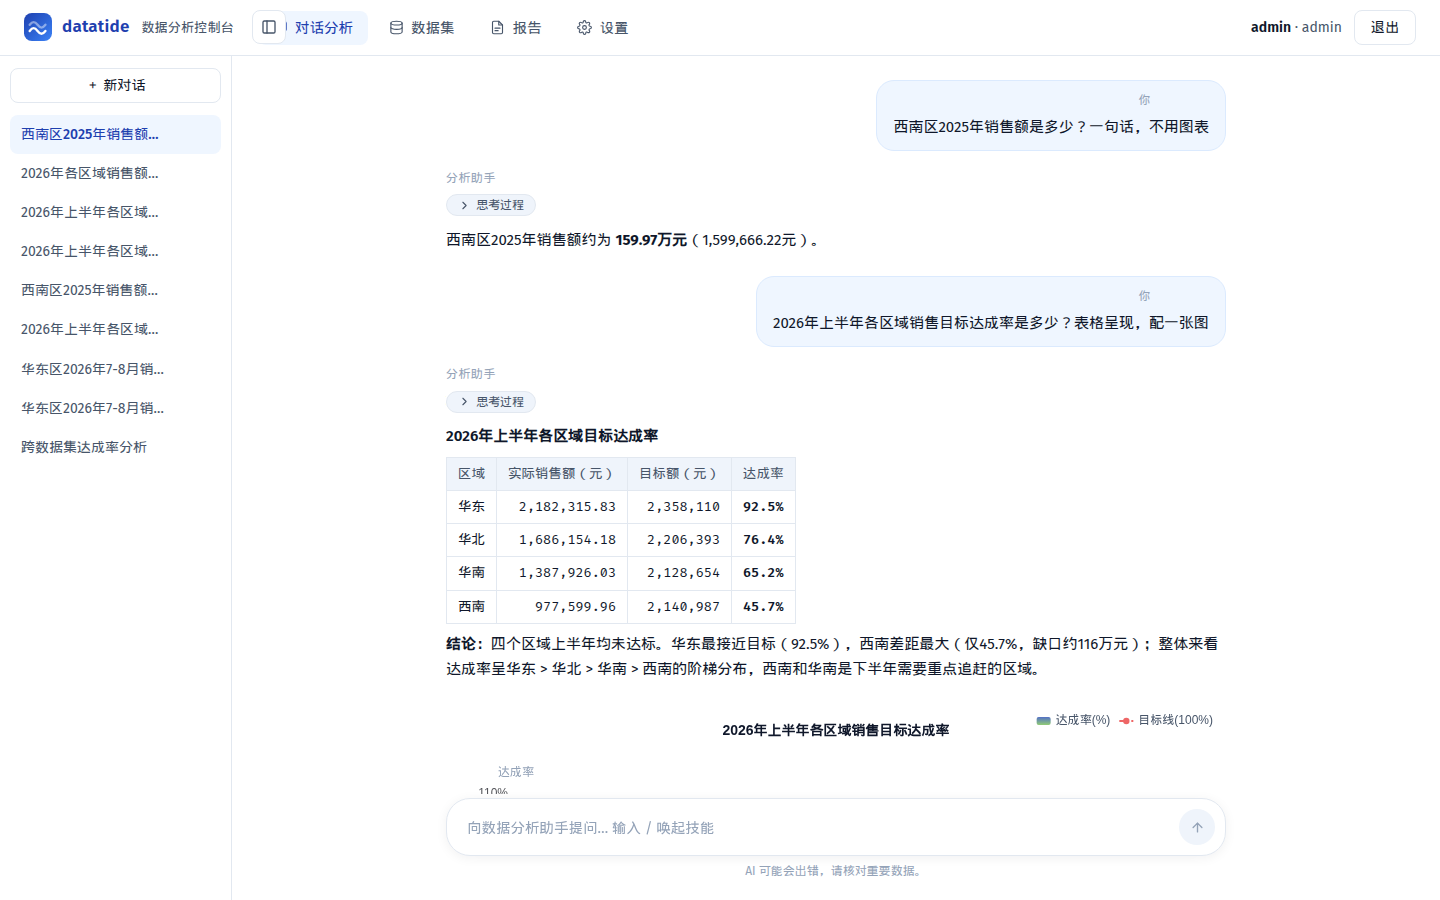
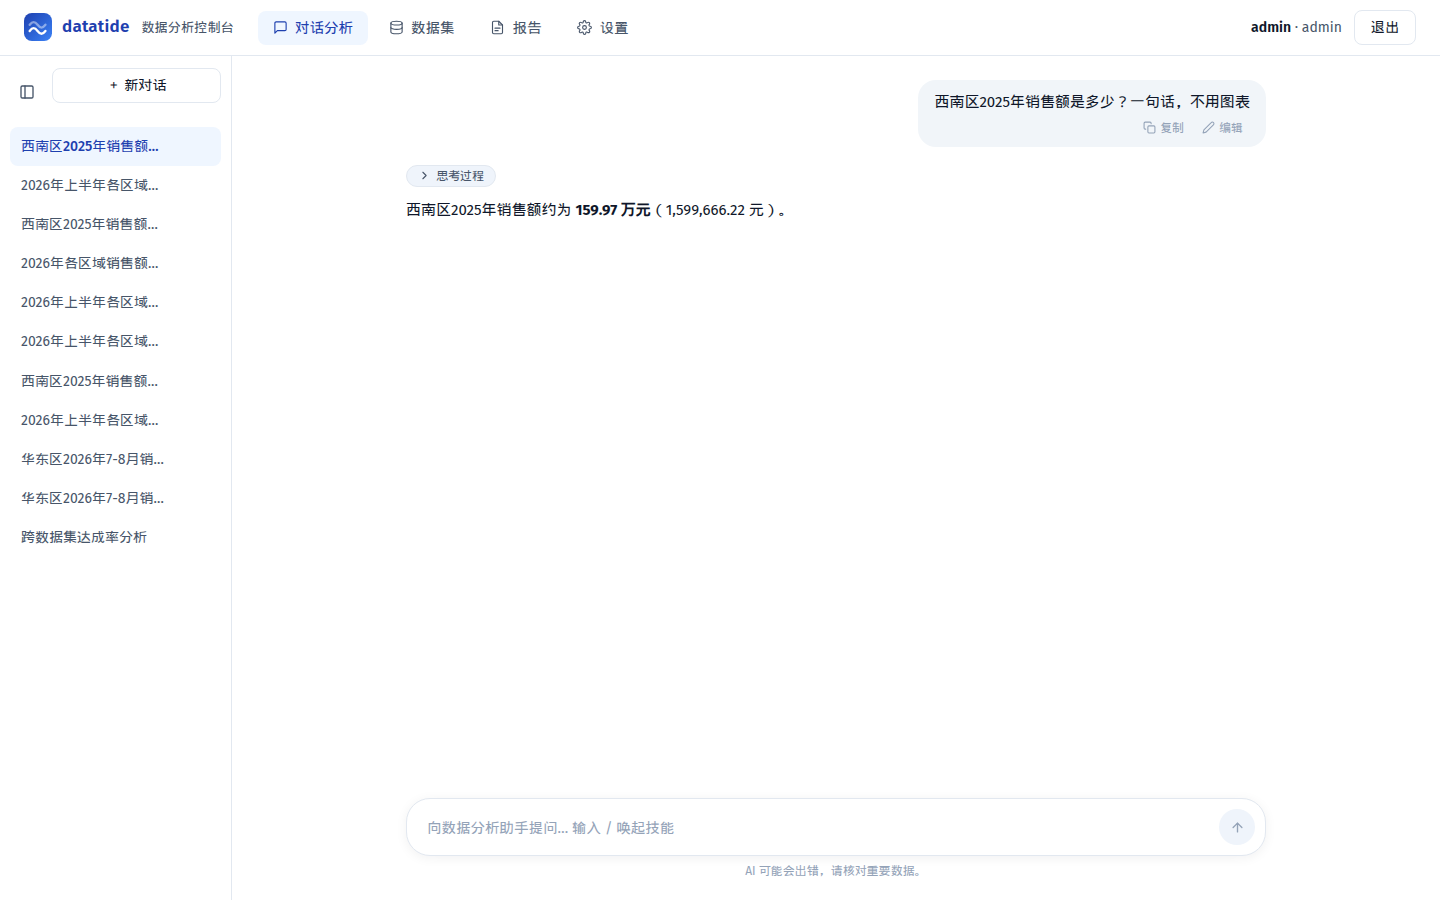
chat layout refinements per feedback: wider column (860px), remove role labels, action buttons bottom-right of each message, sidebar collapse button inside sidebar (floating expand button when collapsed), user bubble neutral gray

diff --git a/webui/src/style.css b/webui/src/style.css
@@ -256,13 +256,21 @@ label { display: block; color: var(--muted); font-size: 13px; margin: 12px 0 5px
   transition: margin-left 200ms ease;
 }
 .chat-layout.sidebar-collapsed .sidebar { margin-left: -241px; }
+.sidebar-head { display: flex; align-items: center; gap: 8px; margin-bottom: 12px; }
+.sidebar-head .sidebar-new { flex: 1; }
 .sidebar-toggle {
   display: inline-flex; align-items: center; justify-content: center;
-  width: 34px; height: 34px; border-radius: var(--radius-sm);
+  width: 34px; height: 34px; border-radius: var(--radius-sm); flex: none;
   background: none; border: none; color: var(--muted); cursor: pointer;
   transition: background 150ms ease, color 150ms ease;
 }
 .sidebar-toggle:hover { background: var(--panel-2); color: var(--text); }
+.chat-pane { position: relative; }
+.sidebar-toggle-float {
+  position: absolute; top: 14px; left: 14px; z-index: 30;
+  background: var(--panel); border: 1px solid var(--border);
+}
+.sidebar-toggle-float:hover { background: var(--panel-2); }
 .session-list { width: 232px; border-right: 1px solid var(--border); background: var(--panel); overflow-y: auto; padding: 12px 10px; }
 .session-list .new { width: 100%; margin-bottom: 12px; }
 .session-item {
@@ -286,18 +294,17 @@ label { display: block; color: var(--muted); font-size: 13px; margin: 12px 0 5px
 .ghost.active-tab { border-color: var(--primary); color: var(--primary); background: var(--primary-soft); }
 .chat-pane { flex: 1; display: flex; flex-direction: column; overflow: hidden; }
 .messages { flex: 1; overflow-y: auto; padding: 24px 32px 12px; }
-.chat-column { max-width: 780px; margin: 0 auto; }
+.chat-column { max-width: 860px; margin: 0 auto; }
 /* 用户消息：右侧气泡，宽度随内容 */
 .msg.user { display: flex; justify-content: flex-end; margin-bottom: 18px; }
 .msg.user .bubble {
-  background: var(--primary-soft); border-radius: 18px; border: 1px solid var(--border-strong);
+  background: #f1f5f9; border-radius: 18px;
   padding: 10px 16px; max-width: 85%; width: fit-content;
 }
 .msg.user .bubble .md-body p { margin: 0; }
 /* 助手消息：左侧无边框正文（ChatGPT 式） */
 .msg.assistant { margin-bottom: 24px; }
 .msg.assistant .bubble { background: none; border: none; box-shadow: none; padding: 0; border-radius: 0; }
-.msg .role { font-size: 12px; color: var(--faint); margin-bottom: 0; letter-spacing: 0.4px; }
 .msg.user .msg-head { justify-content: flex-end; margin-bottom: 4px; }
 .md-body > :first-child { margin-top: 0; }
 .md-body > :last-child { margin-bottom: 0; }
@@ -314,7 +321,7 @@ label { display: block; color: var(--muted); font-size: 13px; margin: 12px 0 5px
 .msg .bubble th { background: var(--panel-2); color: var(--muted); font-weight: 500; }
 .msg .bubble code { font-family: var(--mono); background: var(--panel-2); padding: 1px 6px; border-radius: 4px; font-size: 13.5px; }
 .msg .bubble b { color: var(--primary-strong); }
-.tool-trace { max-width: 780px; margin: 0 auto 10px; display: flex; flex-wrap: wrap; gap: 6px; padding: 0 2px; }
+.tool-trace { max-width: 860px; margin: 0 auto 10px; display: flex; flex-wrap: wrap; gap: 6px; padding: 0 2px; }
 .tool-chip {
   font-family: var(--mono); font-size: 12px; color: var(--muted);
   background: var(--panel); border: 1px solid var(--border); border-radius: 999px;
@@ -323,7 +330,7 @@ label { display: block; color: var(--muted); font-size: 13px; margin: 12px 0 5px
 }
 .tool-chip .dot { width: 6px; height: 6px; border-radius: 50%; background: var(--ok); flex: none; }
 .tool-chip.err .dot { background: var(--err); }
-.chart-wrap { max-width: 780px; margin: 0 auto 16px; position: relative; }
+.chart-wrap { max-width: 860px; margin: 0 auto 16px; position: relative; }
 .chart-box { height: 340px; }
 .chart-download {
   position: absolute; top: 8px; right: 8px; z-index: 5;
@@ -334,13 +341,13 @@ label { display: block; color: var(--muted); font-size: 13px; margin: 12px 0 5px
 }
 .chart-wrap:hover .chart-download { opacity: 1; pointer-events: auto; }
 .chart-download:hover { color: var(--primary); border-color: var(--primary); }
-.table-exports { max-width: 780px; margin: -8px auto 12px; display: flex; gap: 8px; flex-wrap: wrap; }
+.table-exports { max-width: 860px; margin: -8px auto 12px; display: flex; gap: 8px; flex-wrap: wrap; }
 .table-export { font-size: 12.5px; padding: 4px 12px; display: inline-flex; align-items: center; gap: 6px; }
 .composer-area {
   flex: none; padding: 4px 32px 18px; background: linear-gradient(transparent, rgba(255,255,255,0.92) 30%);
 }
 .composer {
-  position: relative; max-width: 780px; margin: 0 auto;
+  position: relative; max-width: 860px; margin: 0 auto;
   display: flex; align-items: flex-end; gap: 8px;
   background: var(--panel); border: 1px solid var(--border);
   border-radius: 24px; padding: 10px 10px 10px 18px;
@@ -363,7 +370,7 @@ label { display: block; color: var(--muted); font-size: 13px; margin: 12px 0 5px
 .composer .send-btn:hover { background: var(--primary-strong); }
 .composer .send-btn:disabled { background: var(--panel-2); color: var(--faint); cursor: default; }
 .composer .send-btn.stop-btn { background: var(--err); }
-.composer-hint { max-width: 780px; margin: 6px auto 0; text-align: center; font-size: 12px; color: var(--faint); }
+.composer-hint { max-width: 860px; margin: 6px auto 0; text-align: center; font-size: 12px; color: var(--faint); }
 .chat-input { display: flex; gap: 10px; padding: 14px 32px; border-top: 1px solid var(--border); background: var(--panel); }
 .skill-picker {
   position: absolute; bottom: calc(100% + 10px); left: 0; right: 0; z-index: 40;
@@ -382,10 +389,8 @@ label { display: block; color: var(--muted); font-size: 13px; margin: 12px 0 5px
 .skill-option .skill-desc { font-size: 13px; color: var(--muted); overflow: hidden; text-overflow: ellipsis; white-space: nowrap; }
 button.stop { color: var(--err); border-color: var(--err); }
 button.stop:hover { background: var(--err-soft); border-color: var(--err); color: var(--err); }
-.msg-head { display: flex; align-items: center; justify-content: space-between; margin-bottom: 6px; }
-.msg .role { margin-bottom: 0; }
-.msg-actions { display: flex; gap: 4px; opacity: 0; transition: opacity 120ms ease; }
-.msg:hover .msg-actions { opacity: 1; }
+.msg-actions { display: flex; gap: 4px; justify-content: flex-end; margin-top: 4px; opacity: 0; transition: opacity 120ms ease; }
+.msg:hover .msg-actions, .msg.user:hover .msg-actions { opacity: 1; }
 .msg-actions button {
   display: inline-flex; align-items: center; gap: 4px;
   background: none; border: none; cursor: pointer;
@@ -394,6 +399,7 @@ button.stop:hover { background: var(--err-soft); border-color: var(--err); color
   transition: color 120ms ease, background 120ms ease;
 }
 .msg-actions button:hover { color: var(--primary); background: var(--primary-soft); }
+.msg.user .msg-actions button:hover { color: var(--primary); background: rgba(255, 255, 255, 0.7); }
 .thinking-block { margin-bottom: 8px; }
 .thinking-toggle {
   display: inline-flex; align-items: center; gap: 5px;

diff --git a/webui/src/views/Chat.jsx b/webui/src/views/Chat.jsx
@@ -302,22 +302,23 @@ export function Chat({ user, notify, wrap }) {
 
   return (
     <div className={`chat-layout${sidebarOpen ? "" : " sidebar-collapsed"}`}>
-      <button
-        type="button"
-        className="sidebar-toggle"
-        title={sidebarOpen ? "收起侧栏" : "展开侧栏"}
-        onClick={toggleSidebar}
-        style={{ position: "absolute", left: sidebarOpen ? 252 : 12, top: 10, zIndex: 30, background: "var(--panel)", border: "1px solid var(--border)" }}
-      >
-        <svg viewBox="0 0 24 24" width="16" height="16" fill="none" stroke="currentColor" strokeWidth="2" strokeLinecap="round" strokeLinejoin="round">
-          <rect x="3" y="3" width="18" height="18" rx="2" />
-          <path d="M9 3v18" />
-        </svg>
-      </button>
       <aside className="sidebar session-list">
-        <button className="ghost new" onClick={newSession}>
-          ＋ 新对话
-        </button>
+        <div className="sidebar-head">
+          <button
+            type="button"
+            className="sidebar-toggle"
+            title={sidebarOpen ? "收起侧栏" : "展开侧栏"}
+            onClick={toggleSidebar}
+          >
+            <svg viewBox="0 0 24 24" width="16" height="16" fill="none" stroke="currentColor" strokeWidth="2" strokeLinecap="round" strokeLinejoin="round">
+              <rect x="3" y="3" width="18" height="18" rx="2" />
+              <path d="M9 3v18" />
+            </svg>
+          </button>
+          <button className="ghost new sidebar-new" onClick={newSession}>
+            ＋ 新对话
+          </button>
+        </div>
         {sessions.map((s) =>
           renaming?.id === s.id ? (
             <form
@@ -375,6 +376,19 @@ export function Chat({ user, notify, wrap }) {
         )}
       </aside>
       <div className="chat-pane">
+        {sidebarOpen ? null : (
+          <button
+            type="button"
+            className="sidebar-toggle sidebar-toggle-float"
+            title="展开侧栏"
+            onClick={toggleSidebar}
+          >
+            <svg viewBox="0 0 24 24" width="16" height="16" fill="none" stroke="currentColor" strokeWidth="2" strokeLinecap="round" strokeLinejoin="round">
+              <rect x="3" y="3" width="18" height="18" rx="2" />
+              <path d="M9 3v18" />
+            </svg>
+          </button>
+        )}
         <div className="messages" onScroll={onScroll}>
           <div className="chat-column">
             {blocks.length === 0 && (
@@ -495,24 +509,6 @@ function MessageBlock({ block, onCopy, onEdit, editing, onSubmitEdit, onCancelEd
       )}
       <div className={`msg ${block.role}`}>
         <div className="bubble">
-          <div className="msg-head">
-            <span className="role">{block.role === "user" ? "你" : "分析助手"}</span>
-            <span className="msg-actions">
-              <button type="button" title="复制" onClick={() => onCopy(block.text)}>
-                <svg viewBox="0 0 24 24" width="13" height="13" fill="none" stroke="currentColor" strokeWidth="2" strokeLinecap="round" strokeLinejoin="round">
-                  <rect x="9" y="9" width="13" height="13" rx="2" />
-                  <path d="M5 15H4a2 2 0 0 1-2-2V4a2 2 0 0 1 2-2h9a2 2 0 0 1 2 2v1" />
-                </svg>
-              </button>
-              {block.role === "user" && !block.live && block.id != null && onEdit && editing?.id !== block.id && (
-                <button type="button" title="编辑并重新生成回答（之前的消息不受影响）" onClick={() => onEdit(block)}>
-                  <svg viewBox="0 0 24 24" width="13" height="13" fill="none" stroke="currentColor" strokeWidth="2" strokeLinecap="round" strokeLinejoin="round">
-                    <path d="M17 3a2.85 2.83 0 1 1 4 4L7.5 20.5 2 22l1.5-5.5Z" />
-                  </svg>
-                </button>
-              )}
-            </span>
-          </div>
           {editing != null && block.id != null && editing.id === block.id ? (
             <InlineEdit
               initial={editing.text}
@@ -531,6 +527,23 @@ function MessageBlock({ block, onCopy, onEdit, editing, onSubmitEdit, onCancelEd
               )}
             </>
           )}
+          <div className="msg-actions">
+            <button type="button" title="复制" onClick={() => onCopy(block.text)}>
+              <svg viewBox="0 0 24 24" width="13" height="13" fill="none" stroke="currentColor" strokeWidth="2" strokeLinecap="round" strokeLinejoin="round">
+                <rect x="9" y="9" width="13" height="13" rx="2" />
+                <path d="M5 15H4a2 2 0 0 1-2-2V4a2 2 0 0 1 2-2h9a2 2 0 0 1 2 2v1" />
+              </svg>
+              复制
+            </button>
+            {block.role === "user" && !block.live && block.id != null && onEdit && editing?.id !== block.id && (
+              <button type="button" title="编辑并重新生成回答（之前的消息不受影响）" onClick={() => onEdit(block)}>
+                <svg viewBox="0 0 24 24" width="13" height="13" fill="none" stroke="currentColor" strokeWidth="2" strokeLinecap="round" strokeLinejoin="round">
+                  <path d="M17 3a2.85 2.83 0 1 1 4 4L7.5 20.5 2 22l1.5-5.5Z" />
+                </svg>
+                编辑
+              </button>
+            )}
+          </div>
         </div>
       </div>
       {block.charts?.map((c) => (
